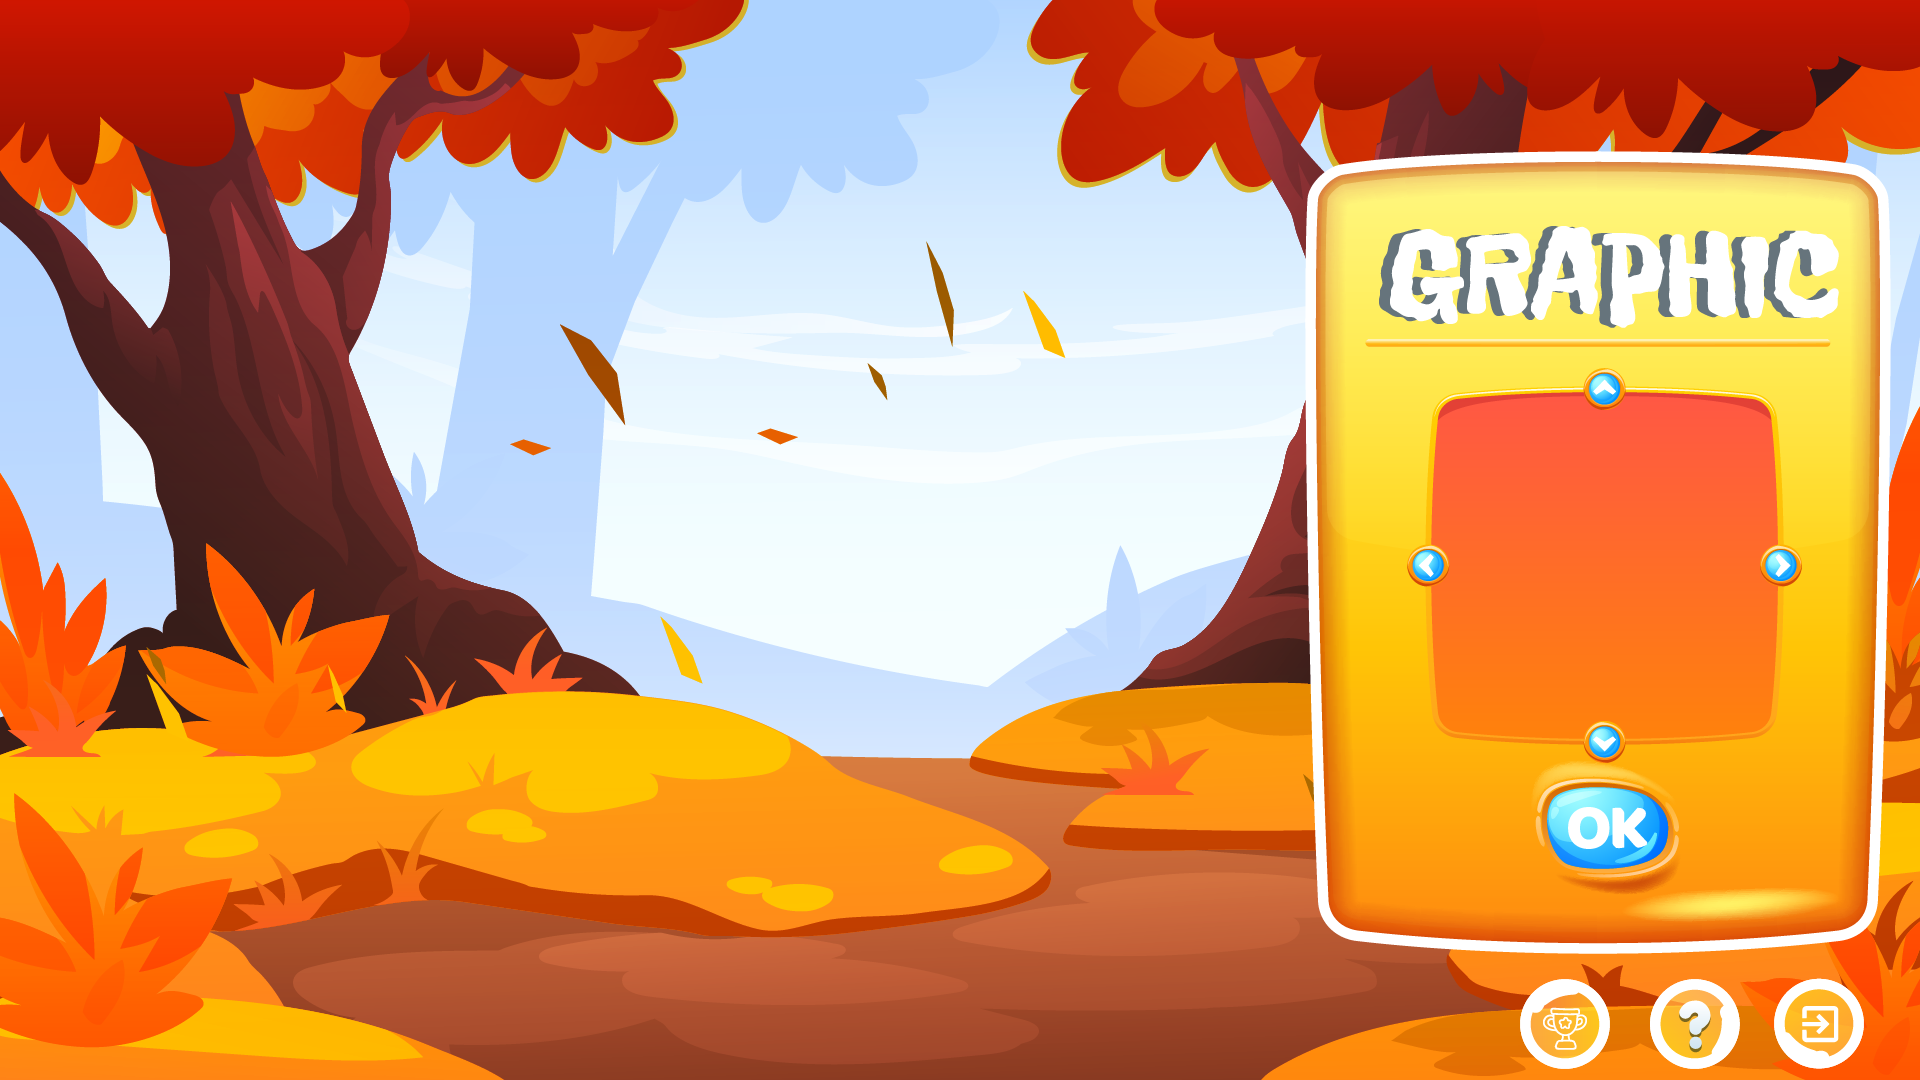
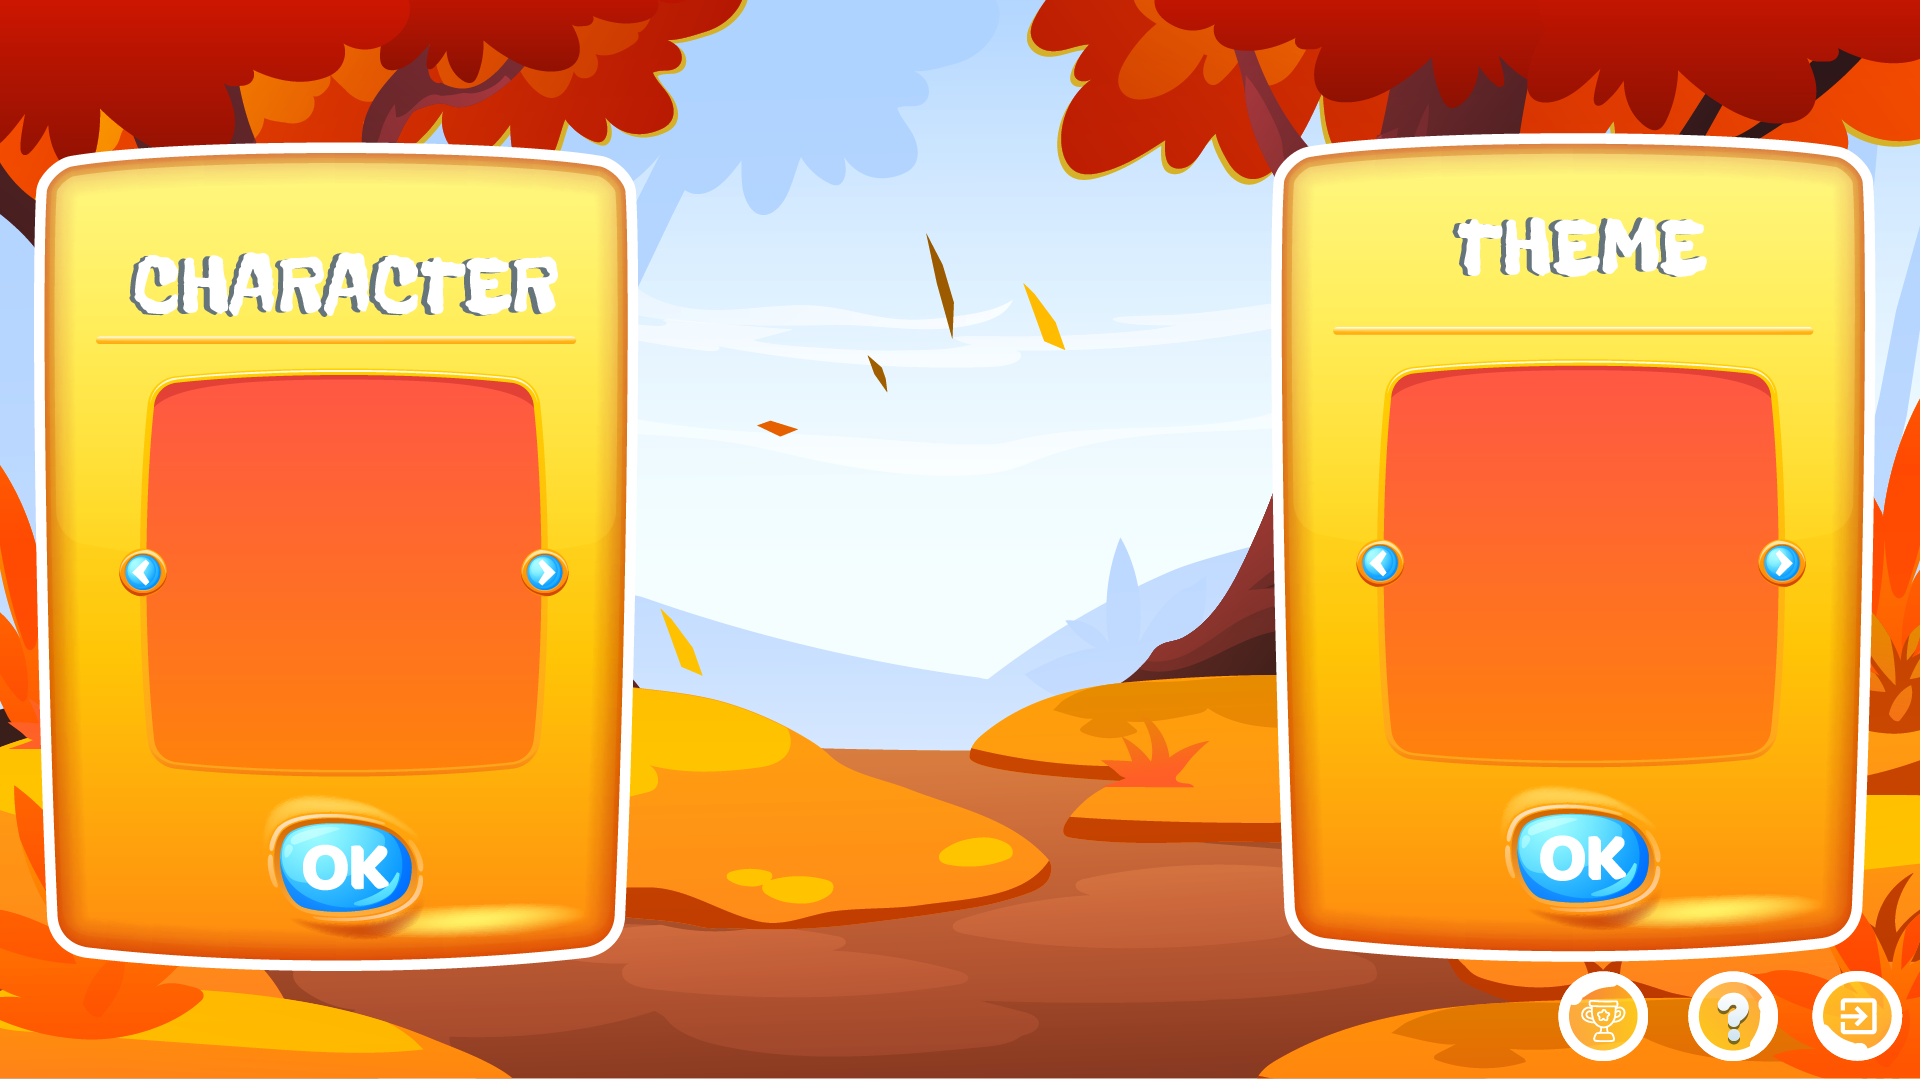
Adjust position and size in Graphic

diff --git a/game_crossing/src/UIManager.cpp b/game_crossing/src/UIManager.cpp
@@ -73,12 +73,12 @@ const std::array<sf::FloatRect, 7> UIManager::kMainMenuButtonBounds = {
 };
 
 const std::array<std::string, 4> UIManager::kThemeNames = { "spring", "summer", "autumn", "winter" };
-const sf::FloatRect UIManager::kCharacterPanelBounds({107.f, 409.f}, {351.f, 347.f});
-const sf::FloatRect UIManager::kCharacterPrevBounds ({89.f, 562.f}, {43.f, 43.f});
-const sf::FloatRect UIManager::kCharacterNextBounds ({433.f, 562.f}, {43.f, 43.f});
-const sf::FloatRect UIManager::kThemePanelBounds    ({1414.f, 409.f}, {351.f, 347.f});
-const sf::FloatRect UIManager::kThemePrevBounds     ({1396.f, 562.f}, {43.f, 43.f});
-const sf::FloatRect UIManager::kThemeNextBounds     ({1740.f, 562.f}, {43.f, 43.f});
+const sf::FloatRect UIManager::kCharacterPanelBounds({141.f, 380.f}, {399.f, 399.f});
+const sf::FloatRect UIManager::kCharacterPrevBounds ({120.f, 554.f}, {48.f, 48.f});
+const sf::FloatRect UIManager::kCharacterNextBounds ({513.f, 554.f}, {48.f, 48.f});
+const sf::FloatRect UIManager::kThemePanelBounds    ({1374.f, 372.f}, {399.f, 399.f});
+const sf::FloatRect UIManager::kThemePrevBounds     ({1353.f, 546.f}, {47.f, 47.f});
+const sf::FloatRect UIManager::kThemeNextBounds     ({1746.f, 546.f}, {47.f, 47.f});
 const sf::FloatRect UIManager::kSfxTrackBounds      ({1383.f, 484.f}, {400.f, 20.f});
 const sf::FloatRect UIManager::kSfxDecBounds        ({1313.f, 469.f}, {50.f, 50.f});
 const sf::FloatRect UIManager::kSfxIncBounds        ({1803.f, 469.f}, {50.f, 50.f});
@@ -2217,3 +2217,4 @@ void UIManager::renderPause()
     drawCenteredText("PAUSED", 280, 56, sf::Color::White, true);
     drawCenteredText("Enter to resume   |   Esc to main menu", 360, 22, sf::Color(200, 200, 200));
 }
+
